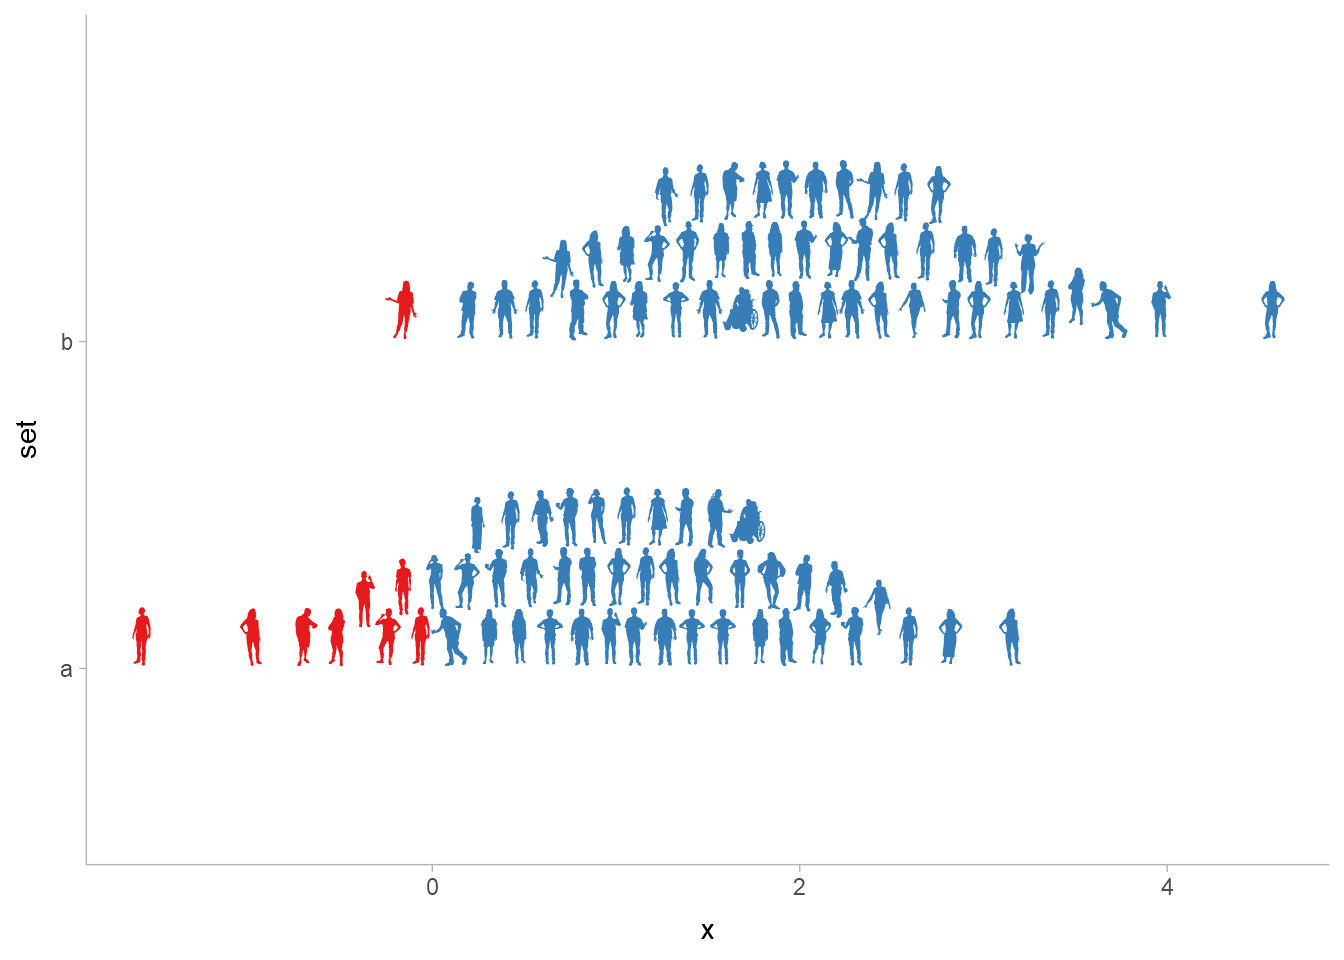
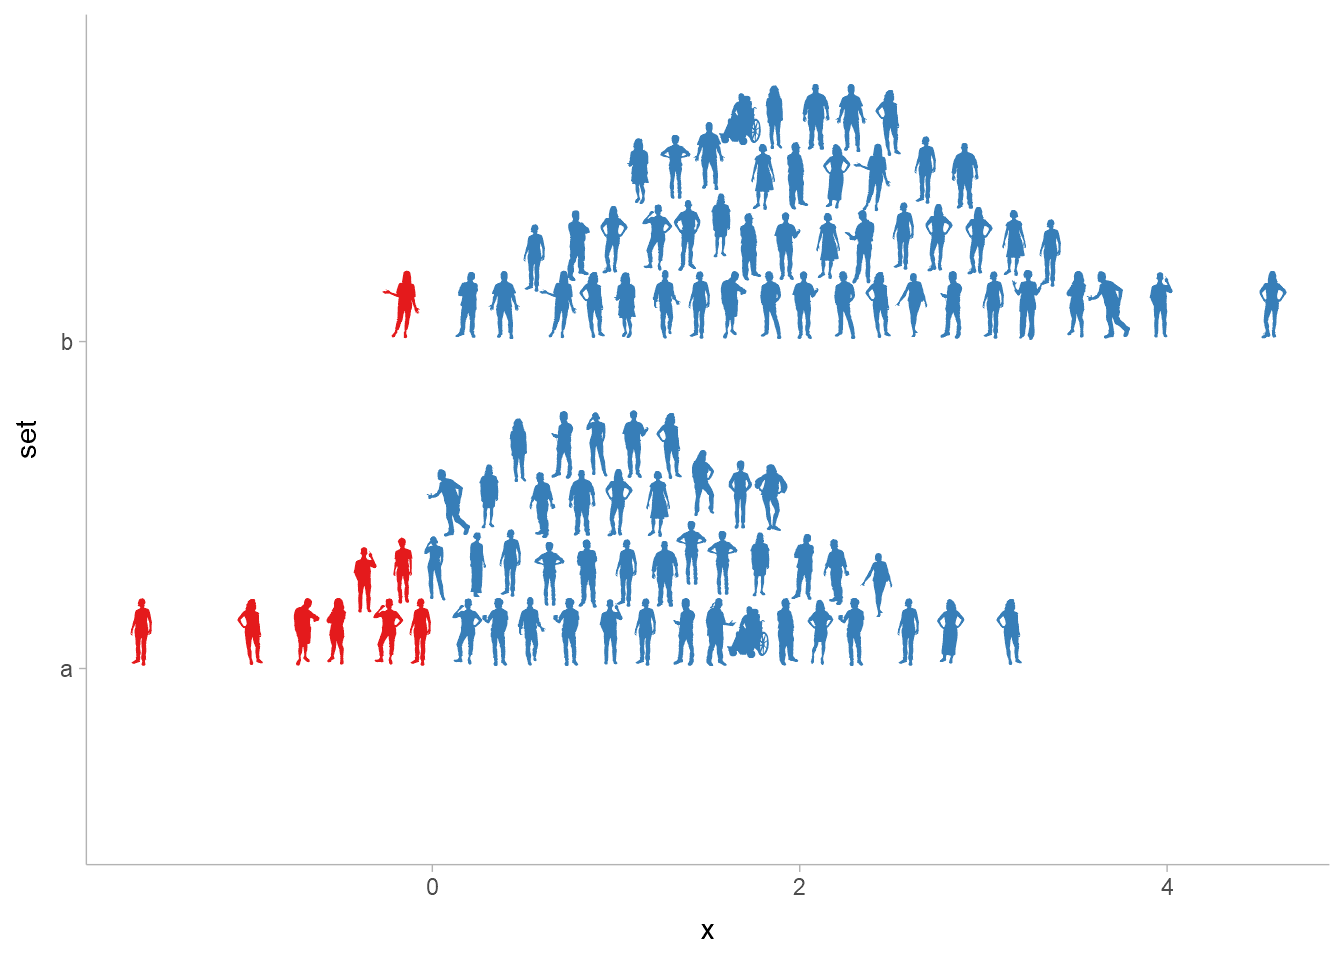
emoji example to weepeople doc

diff --git a/weepeople_dotplots.md b/weepeople_dotplots.md
@@ -102,7 +102,7 @@ We can also make it feel a bit more organic using the `"swarm"` layout:
 ``` r
 df |>
   ggplot(aes(x = x, y = set, group = set, shape = icon, color = x > 0)) + 
-  geom_dots(family = "weepeople", dotsize = 2.4, layout = "swarm", binwidth = 0.145) + 
+  geom_dots(family = "weepeople", dotsize = 2.4, layout = "swarm")+#, binwidth = 0.145) + 
   scale_shape_manual(values = people, guide = "none") +
   scale_color_brewer(palette = "Set1", guide = "none")
 ```
@@ -121,12 +121,22 @@ data.frame(x = distributional::dist_normal(0,1)) |>
 
 <img src="weepeople_dotplots_files/figure-gfm/unnamed-chunk-8-1.png" width="672" />
 
+## Bonus
+
+Bonus: emoji dotplots using {ragg}
+
 ``` r
-df |>
-  ggplot(aes(x = x, y = set, group = set, shape = x > 0)) + 
-  geom_dots(layout = "swarm", binwidth = 0.145) + 
-  scale_shape_manual(values = c("💩", "😃"), guide = "none") +
-  scale_color_brewer(palette = "Set1", guide = "none")
+ragg::agg_png("weepeople_dotplots_files/emoji-ragg.png", width = 1344, height = 960, res = 200)
+print(df |>
+  ggplot(aes(x = x, y = set, group = set, color = x > 0)) + 
+  geom_dots(aes(shape = x > 0), layout = "weave", dotsize = 0.9, stackratio = 1.1, fill = NA, position = position_nudge(x = 0.07)) + 
+  scale_shape_manual(values = c("💩", "😺"), guide = "none") +
+  scale_color_brewer(palette = "Set1", guide = "none")) +
+  geom_vline(xintercept = 0)
+dev.off()
 ```
 
-<img src="weepeople_dotplots_files/figure-gfm/unnamed-chunk-9-1.png" width="672" />
+    ## png 
+    ##   2
+
+![](weepeople_dotplots_files/emoji-ragg.png)
